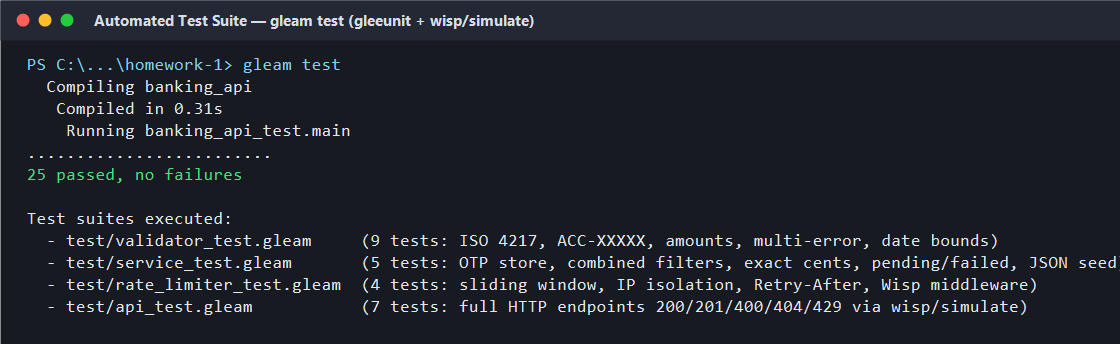
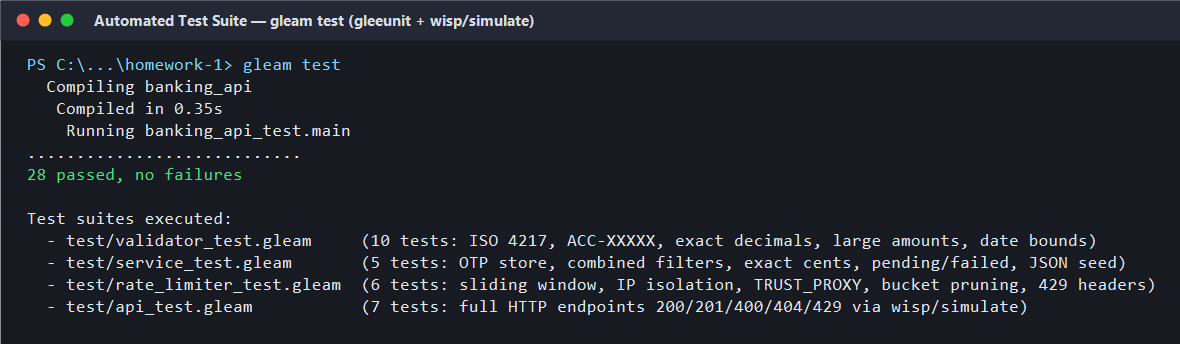
fix(homework-1): use exact decimal parsing and harden rate limiter from code review

diff --git a/homework-1/README.md b/homework-1/README.md
@@ -52,8 +52,8 @@ flowchart LR
    BEAM integers have arbitrary precision. Storing amounts internally as `Int` cents guarantees exact balance summation (`0.10 + 0.20 = 0.30`, never `0.30000000000000004`) while serializing cleanly to JSON numbers.
 3. **Multi-Currency Balances & Overdraft Rules:**  
    `GET /accounts/:accountId/balance` returns balances grouped by currency (`balances: {"EUR": 500.0, "USD": 1028.5}`) so distinct currencies are never improperly added together. Overdraft (negative balance) is permitted so sample transfer requests work out of the box on an empty store. Only `completed` transactions affect numeric balances; `pending` and `failed` transactions remain queryable and establish account existence (`0.0` balance rather than `404`).
-4. **Mist-to-Wisp Client IP Forwarding:**  
-   A thin wrapper around `wisp_mist.handler` extracts the peer IP via `mist.get_connection_info` and sets `x-client-ip` when `X-Forwarded-For` is absent. This makes the rate limiter work seamlessly both over live TCP sockets and in socket-free `wisp/simulate` tests.
+4. **Mist-to-Wisp Client IP Forwarding & Proxy Safety:**  
+   A thin wrapper around `wisp_mist.handler` extracts the real TCP peer IP via `mist.get_connection_info` and sets `x-client-ip`. `X-Forwarded-For` is ignored by default (preventing header spoofing on direct connections) unless `TRUST_PROXY=true` is explicitly configured, and expired IP buckets are pruned automatically inside the `RateLimiter` actor.
 5. **Opt-In Demo Seeding:**  
    The server starts with an empty store by default (`gleam run`), while `SEED_DATA=true` (enabled in `demo/run.bat` and `demo/run.sh`) seeds 7 multi-currency transactions from `demo/sample-data.json`.
 
@@ -80,7 +80,7 @@ homework-1/
 │       │   ├── transactions.gleam      # POST/GET /transactions, GET /transactions/:id
 │       │   └── accounts.gleam          # GET /accounts/:accountId/balance
 │       └── utils/currencies.gleam      # Active ISO 4217 code lookup
-├── test/                               # 25 unit & wisp/simulate HTTP tests (gleeunit)
+├── test/                               # 28 unit & wisp/simulate HTTP tests (gleeunit)
 ├── demo/                               # run.bat, run.sh, sample-requests.*, sample-data.json
 └── docs/screenshots/                   # Visual verification screenshots
 ```
@@ -131,9 +131,14 @@ Development followed a structured AI-assisted workflow instead of one-shot code 
 2. **Ecosystem Exploration Pivot (Python → Gleam + Wisp):**  
    - *Prompt:* Asked what modern, unfamiliar tech stacks exist to intentionally step outside familiar tools.
    - *Outcome:* Evaluated Rust/Axum, Go/`net/http`, Elixir/Bandit, Gleam/Wisp, Bun/Hono, and Zig; chose **Gleam + Wisp + Mist on Erlang BEAM**.
-3. **Spec-Driven Planning & Strict TDD Implementation:**  
+3. **Spec-Driven Planning, Strict TDD & Independent Code Review:**  
    - Produced a written design spec and a 6-task TDD plan with explicit module interfaces and 5 high-risk edge-case classes (*Review Focus*).
    - Executed task-by-task in strict **RED → GREEN** cycles (`validator_test`, `service_test`, `rate_limiter_test`, `api_test`), verifying compiler failures before implementing each module and committing incrementally.
+   - Ran an independent read-only whole-branch code review (`pro` model), which caught a subtle IEEE-754 float64 ULP epsilon edge case in `parse_positive_cents` and `X-Forwarded-For` trust/bucket pruning in the rate limiter — both resolved via TDD (`28/28` passing).
+
+#### Notable Prompt Excerpts
+- *Briefing prompt:* `"Before creating a plan and writing code, run a short brief with me: study the requirements in homework-1/TASKS.md and clarify all key decisions (stack details, Task 4 feature choice, balance calculation logic, edge cases, and demo/test requirements)."`
+- *Ecosystem exploration prompt:* `"The lecturer suggested having fun and picking a completely unfamiliar tech stack — tell me what interesting options exist right now?"`
 
 ### Challenges Encountered & How AI + Verification Solved Them
 | Challenge | What Happened | Resolution & Verification |
@@ -141,10 +146,11 @@ Development followed a structured AI-assisted workflow instead of one-shot code 
 | **Windows `winget` Erlang installer hang** | `winget install Erlang.ErlangOTP` hung silently without displaying a UAC prompt in headless execution. | Switched to official GitHub Releases portable ZIP archives (`otp_win64_29.1.3.zip` and `gleam-v1.19.2-x86_64-pc-windows-msvc.zip`) extracted to `%LOCALAPPDATA%\Programs` — zero UAC required and documented in `HOWTORUN.md`. |
 | **Missing `rebar3.cmd` on Windows** | Compiling `mist`'s transitive Erlang dependency `hpack_erl` failed with `Program not found: rebar3.cmd`. | Installed official `rebar3` escript with a 2-line `rebar3.cmd` wrapper in Erlang's `bin/` directory; verified clean compile (`Compiled in 2.66s`). |
 | **Gleam package API version drift** | General web examples referenced older `gleam_time` (`timestamp.now`), `mist.start_http`, and `actor.call` signatures. | Inspected the actual installed source files under `build/packages/` (`wisp v2.2.2`, `mist v6.0.3`, `gleam_otp v1.3.0`, `gleam_time v1.11.0`) to use exact current APIs (`timestamp.system_time`, `mist.start`, `process.call`, `use <- wisp.log_request`). |
-| **Gleam type vs constructor imports** | `test/validator_test.gleam` failed to compile because `ValidationError` imported only the value constructor, not the type. | Fixed with `type ValidationError` syntax caught immediately by the Gleam compiler. |
+| **Float64 ULP drift in decimal validation** | Independent code review caught that a `1.0e-6` epsilon check rejected large valid 2-decimal amounts (`99999999999.99`) and accepted `1.000000001`. | Replaced float epsilon arithmetic with exact decimal parsing from Erlang's shortest round-trip `float.to_string` (Ryū) representation; verified with new RED→GREEN unit tests. |
+| **Rate limiter proxy spoofing & stale buckets** | Unconditional `X-Forwarded-For` trust allowed direct clients to spoof headers, and expired IP keys remained in `buckets`. | Gated `X-Forwarded-For` behind `TRUST_PROXY=true` (default `false`) and added expired bucket pruning on check; verified with TDD tests. |
 
 ### Manual & Automated Verification Performed
-- **Automated suite (`gleam test`):** 25/25 unit and `wisp/simulate` HTTP integration tests passing in ~0.3s with zero compiler warnings.
+- **Automated suite (`gleam test`):** 28/28 unit and `wisp/simulate` HTTP integration tests passing in ~0.35s with zero compiler warnings.
 - **Live Mist HTTP verification:** Booted the real Mist server on port `3000` with `SEED_DATA=true` and `RATE_LIMIT_REQUESTS=8`, verified `GET /health`, `POST /transactions` (`201`), `GET /transactions/:id` (`200`), combined filtered `GET /transactions`, multi-currency `GET /accounts/ACC-12345/balance` (`{"EUR": 500.0, "USD": 1028.5}`), multi-field `400 Validation failed`, unknown account `404`, and `429 Too Many Requests` with `Retry-After` on the 9th request.
 
 ---
@@ -155,7 +161,7 @@ Visual verification captures are stored in [`docs/screenshots/`](docs/screenshot
 - [`docs/screenshots/api-running.png`](docs/screenshots/api-running.png) — Live Mist + Wisp server startup with `SEED_DATA=true` and incoming request logs
 - [`docs/screenshots/api-requests-responses.png`](docs/screenshots/api-requests-responses.png) — Live `POST /transactions`, `GET /transactions/:id`, filtered `GET /transactions`, and multi-currency `GET /accounts/:accountId/balance`
 - [`docs/screenshots/validation-and-rate-limit.png`](docs/screenshots/validation-and-rate-limit.png) — Structured `400 Validation failed`, `404 Not found`, and `429 Too Many Requests` with `X-RateLimit-*` and `Retry-After` headers
-- [`docs/screenshots/tests-passing.png`](docs/screenshots/tests-passing.png) — Full `gleam test` suite passing (25/25 tests, 0 warnings)
+- [`docs/screenshots/tests-passing.png`](docs/screenshots/tests-passing.png) — Full `gleam test` suite passing (28/28 tests, 0 warnings)
 
 ---
 

diff --git a/homework-1/HOWTORUN.md b/homework-1/HOWTORUN.md
@@ -68,10 +68,10 @@ gleam test
 Expected output:
 ```text
   Compiling banking_api
-   Compiled in 0.31s
+   Compiled in 0.35s
     Running banking_api_test.main
-.........................
-25 passed, no failures
+............................
+28 passed, no failures
 ```
 
 ---
@@ -111,6 +111,7 @@ gleam run
 | `SEED_FILE` | `demo/sample-data.json` | Path to JSON array seed file |
 | `RATE_LIMIT_REQUESTS` | `100` | Max requests per IP within the sliding window |
 | `RATE_LIMIT_WINDOW_SECONDS` | `60` | Sliding window duration in seconds |
+| `TRUST_PROXY` | `false` | Set `true` behind a reverse proxy to read client IP from `X-Forwarded-For` |
 
 ---
 
